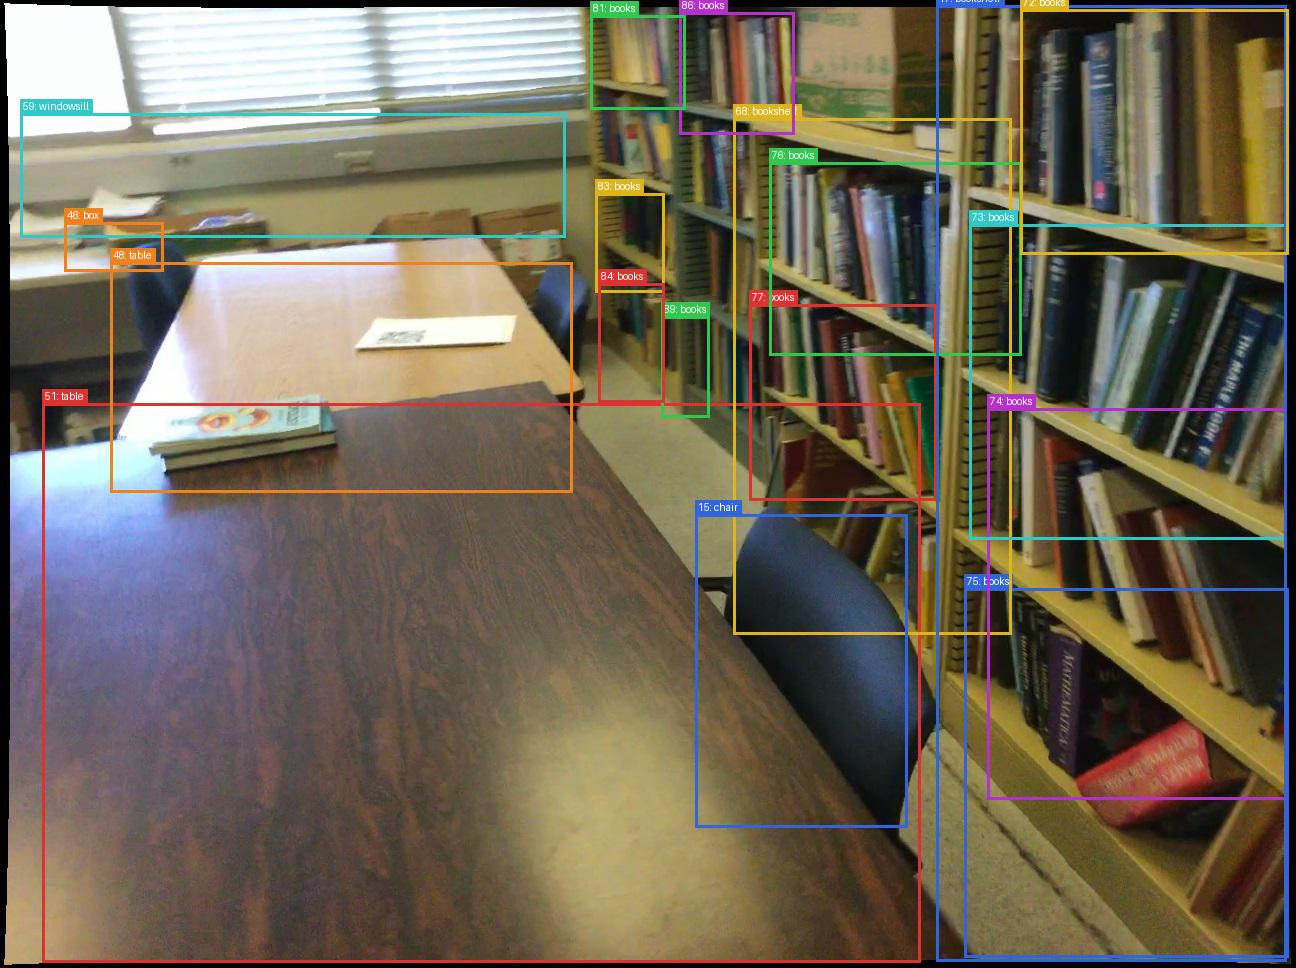
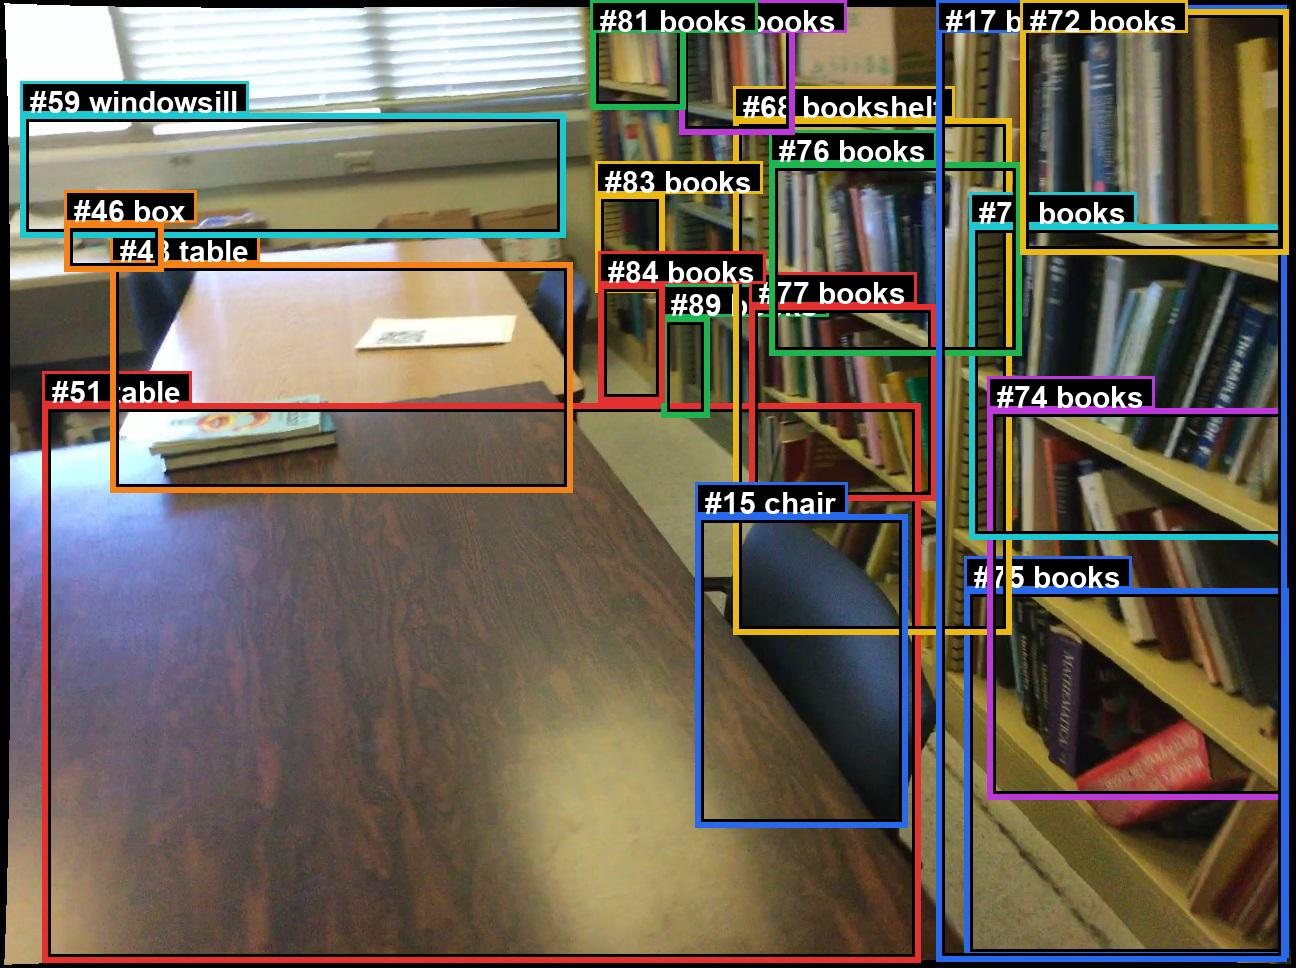
fix(vg): label marked boxes inline

Changed region(s): [[0.0, 0.0, 1.0, 1.0], [0.0926, 0.4959, 0.4321, 0.5269]]

diff --git a/docs/benchmark/nr3d/depth_visibility_spotcheck_20260513.html b/docs/benchmark/nr3d/depth_visibility_spotcheck_20260513.html
@@ -10,7 +10,7 @@ code{background:#eee;padding:1px 4px;border-radius:3px}
 .meta{font-size:13px;color:#4b5563;line-height:1.45}
 </style></head><body>
 <h1>NR3D Depth Visibility Spotcheck</h1>
-<p>Frames below are rendered from raw RGB plus the rebuilt <code>metadata.use_depth=true</code> visibility indices. Only objects present in the current depth-aware <code>view_to_objects</code> entry for that frame are drawn; structural background objects marked by <code>is_background=1</code> are suppressed.</p>
+<p>Frames below are rendered from raw RGB plus the rebuilt <code>metadata.use_depth=true</code> visibility indices. Only objects present in the current depth-aware <code>view_to_objects</code> entry for that frame are drawn; structural background objects marked by <code>is_background=1</code> are suppressed. Each colored box is a candidate proposal's visible 2D image region and is labeled directly as <code>#proposal_id category</code>.</p>
 <p class='meta'>Rebuild summary: 141 scenes, old mappings=224664, new mappings=192090.</p>
 <div class='grid'>
 <div class='card'>

diff --git a/src/benchmarks/embodiedscan_bbox_feasibility/render_marks.py b/src/benchmarks/embodiedscan_bbox_feasibility/render_marks.py
@@ -6,9 +6,49 @@ from pathlib import Path
 from PIL import Image, ImageDraw, ImageFont
 
 _COLORS = [
-    (220, 50, 50), (50, 200, 80), (50, 100, 220), (220, 180, 30),
-    (180, 50, 200), (50, 200, 200), (240, 130, 30),
+    (230, 48, 48),
+    (30, 180, 80),
+    (40, 105, 235),
+    (235, 185, 20),
+    (190, 55, 220),
+    (30, 200, 210),
+    (245, 130, 25),
 ]
+
+
+def _load_font(size: int) -> ImageFont.ImageFont:
+    for name in ("DejaVuSans-Bold.ttf", "Arial Bold.ttf", "Arial.ttf"):
+        try:
+            return ImageFont.truetype(name, size)
+        except OSError:
+            continue
+    return ImageFont.load_default()
+
+
+def _text_size(
+    draw: ImageDraw.ImageDraw,
+    text: str,
+    font: ImageFont.ImageFont,
+) -> tuple[int, int]:
+    left, top, right, bottom = draw.textbbox((0, 0), text, font=font)
+    return right - left, bottom - top
+
+
+def _fit_text_to_width(
+    draw: ImageDraw.ImageDraw,
+    text: str,
+    font: ImageFont.ImageFont,
+    max_width: int,
+) -> str:
+    if _text_size(draw, text, font)[0] <= max_width:
+        return text
+    suffix = "..."
+    if _text_size(draw, suffix, font)[0] > max_width:
+        return ""
+    fitted = text
+    while fitted and _text_size(draw, fitted + suffix, font)[0] > max_width:
+        fitted = fitted[:-1].rstrip()
+    return fitted + suffix if fitted else suffix
 
 
 def render_marked_keyframe(
@@ -16,23 +56,78 @@ def render_marked_keyframe(
     rgb_path: Path,
     out_path: Path,
     marks: list[dict],
-    font_size: int = 18,
+    font_size: int = 30,
+    line_width: int = 6,
+    include_legend: bool = False,
 ) -> None:
     """marks: list of {proposal_id, label, bbox_2d=(x1,y1,x2,y2)}."""
     img = Image.open(rgb_path).convert("RGB")
     draw = ImageDraw.Draw(img)
-    try:
-        font = ImageFont.truetype("DejaVuSans-Bold.ttf", font_size)
-    except IOError:
-        font = ImageFont.load_default()
+    font = _load_font(font_size)
     for i, m in enumerate(marks):
         color = _COLORS[i % len(_COLORS)]
         x1, y1, x2, y2 = m["bbox_2d"]
-        draw.rectangle([(x1, y1), (x2, y2)], outline=color, width=3)
-        tag = f"{m['proposal_id']}: {m['label']}"
-        tw, th = draw.textbbox((0, 0), tag, font=font)[2:]
-        draw.rectangle([(x1, y1 - th - 4), (x1 + tw + 6, y1)], fill=color)
-        draw.text((x1 + 3, y1 - th - 3), tag, fill="white", font=font)
+        draw.rectangle([(x1, y1), (x2, y2)], outline="black", width=line_width + 3)
+        draw.rectangle([(x1, y1), (x2, y2)], outline=color, width=line_width)
+
+        tag = f"#{m['proposal_id']} {m['label']}".strip()
+        tw, th = _text_size(draw, tag, font)
+        pad_x = max(8, font_size // 3)
+        pad_y = max(5, font_size // 6)
+        max_badge_w = max(48, img.width - 2)
+        tag = _fit_text_to_width(draw, tag, font, max_badge_w - 2 * pad_x)
+        tw, th = _text_size(draw, tag, font)
+        badge_w = tw + 2 * pad_x
+        badge_h = th + 2 * pad_y
+        badge_x1 = max(0, min(x1, img.width - badge_w))
+        badge_y1 = max(0, y1 - badge_h)
+        badge_x2 = badge_x1 + badge_w
+        badge_y2 = badge_y1 + badge_h
+        draw.rectangle(
+            [(badge_x1, badge_y1), (badge_x2, badge_y2)],
+            fill=(0, 0, 0),
+            outline=color,
+            width=max(2, line_width // 2),
+        )
+        draw.text(
+            (badge_x1 + pad_x, badge_y1 + pad_y - 1),
+            tag,
+            fill="white",
+            font=font,
+        )
+
+    if include_legend and marks:
+        legend_font = _load_font(max(22, int(font_size * 0.85)))
+        row_h = max(34, int(font_size * 1.35))
+        pad = 14
+        min_col_w = 270
+        cols = max(1, min(3, img.width // min_col_w))
+        rows = (len(marks) + cols - 1) // cols
+        legend_h = pad * 2 + rows * row_h
+        canvas = Image.new("RGB", (img.width, img.height + legend_h), (18, 18, 18))
+        canvas.paste(img, (0, 0))
+        legend_draw = ImageDraw.Draw(canvas)
+        col_w = img.width // cols
+        for i, m in enumerate(marks):
+            row = i // cols
+            col = i % cols
+            x = col * col_w + pad
+            y = img.height + pad + row * row_h
+            color = _COLORS[i % len(_COLORS)]
+            legend_draw.rectangle(
+                [(x, y + 5), (x + 28, y + row_h - 7)],
+                fill=color,
+                outline="white",
+                width=2,
+            )
+            legend_draw.text(
+                (x + 40, y + 1),
+                f"#{m['proposal_id']} {m['label']}",
+                fill="white",
+                font=legend_font,
+            )
+        img = canvas
+
     out_path.parent.mkdir(parents=True, exist_ok=True)
     img.save(out_path)
 

diff --git a/src/benchmarks/tests/test_render_marks.py b/src/benchmarks/tests/test_render_marks.py
@@ -3,7 +3,6 @@ from __future__ import annotations
 
 from pathlib import Path
 
-import numpy as np
 from PIL import Image
 
 from benchmarks.embodiedscan_bbox_feasibility.render_marks import (
@@ -28,3 +27,22 @@ def test_render_marked_keyframe_writes_png(tmp_path: Path) -> None:
     assert out_path.exists()
     out = Image.open(out_path)
     assert out.size == (320, 240)
+
+
+def test_render_marked_keyframe_can_include_legend(tmp_path: Path) -> None:
+    img = Image.new("RGB", (320, 240), color="white")
+    img_path = tmp_path / "rgb.png"
+    img.save(img_path)
+    out_path = tmp_path / "ann" / "frame_10.png"
+    render_marked_keyframe(
+        rgb_path=img_path,
+        out_path=out_path,
+        marks=[
+            {"proposal_id": 9, "label": "soap dispenser", "bbox_2d": (50, 60, 150, 180)}
+        ],
+        include_legend=True,
+    )
+    assert out_path.exists()
+    out = Image.open(out_path)
+    assert out.width == 320
+    assert out.height > 240

diff --git a/src/agents/runtime/base.py b/src/agents/runtime/base.py
@@ -343,6 +343,11 @@ class BaseStage2Runtime(ABC):
             "You are localizing a target object described in natural language.\n\n"
             "The VG pack provides a proposal pool, marked-keyframe renderings, "
             "proposal inspection, spatial-comparison helpers, and the chassis trio.\n\n"
+            "Marked-keyframe images show colored 2D boxes for visible candidate "
+            "proposals. The text inside each box is `#proposal_id category`; "
+            "the `proposal_id` after `#` is the id to use in `inspect_proposal` "
+            "and `submit_final`. Treat the category text as a weak detector "
+            "label and choose the box that covers the referred object.\n\n"
             "### How to start\n"
             "1. Call `list_skills()` to see what skills are available for VG.\n"
             "2. Load `vg-grounding-playbook` first via "

diff --git a/scripts/generate_nr3d_depth_visibility_spotcheck.py b/scripts/generate_nr3d_depth_visibility_spotcheck.py
@@ -187,7 +187,9 @@ def _write_html(rows: list[dict[str, Any]], out_html: Path, report: dict[str, An
         "<code>metadata.use_depth=true</code> visibility indices. Only objects "
         "present in the current depth-aware <code>view_to_objects</code> entry "
         "for that frame are drawn; structural background objects marked by "
-        "<code>is_background=1</code> are suppressed.</p>",
+        "<code>is_background=1</code> are suppressed. Each colored box is a "
+        "candidate proposal's visible 2D image region and is labeled directly "
+        "as <code>#proposal_id category</code>.</p>",
     ]
     if report:
         parts.append(

diff --git a/src/agents/packs/vg_embodiedscan/skills/vg_grounding_playbook.md b/src/agents/packs/vg_embodiedscan/skills/vg_grounding_playbook.md
@@ -28,6 +28,10 @@ ordered cheapest-first:
   specific instance — e.g. you have category candidates from
   `find_proposals_by_category` and want to verify each in a frame
   where Mask3D actually marked it.
+  The marked image draws one colored 2D box per visible candidate
+  proposal. Each box is labeled directly as `#proposal_id category`;
+  submit the integer after `#` when that box covers the referent. The
+  category text is a weak detector label, not ground truth.
 - **`request_more_views(request_text, mode="targeted"|"explore"|"temporal_fan", object_terms=[...], frame_indices=[...])`**
   — Stage-1 visibility-driven view fetch. Cheap (no LLM). Use when
   you need additional views *centered on specific scene objects*
@@ -120,6 +124,12 @@ typically 50-300 frames per scene).
 Returns a text body summarizing the chosen frame:
 `frame_id=N marked image at <path>; visible_proposals=[...]; categories=[...];
 left_to_right=[...]; boxes_2d={...}`.
+
+The injected image for that frame contains colored 2D proposal boxes.
+Each visible box is labeled `#proposal_id category`; the same ids appear
+in `visible_proposals` and `boxes_2d`. The 2D box is only the visible
+image evidence for that proposal, while the final answer must be the
+3D `proposal_id` submitted through `submit_final`.
 
 For left/right referring expressions, use `left_to_right` before
 submitting. It sorts the visible marked proposal ids by 2D image center
